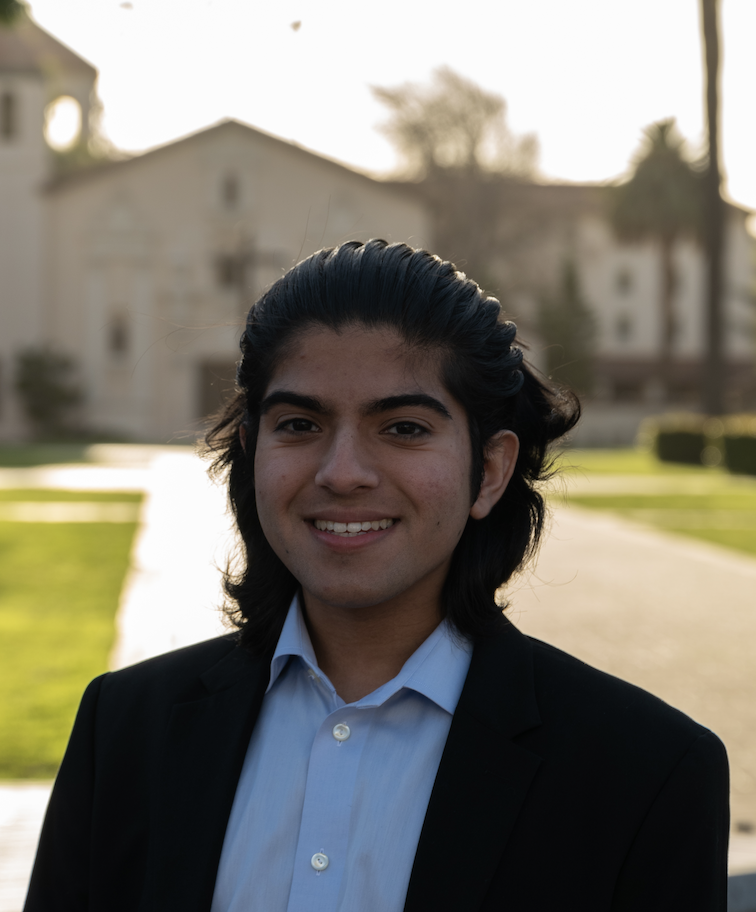
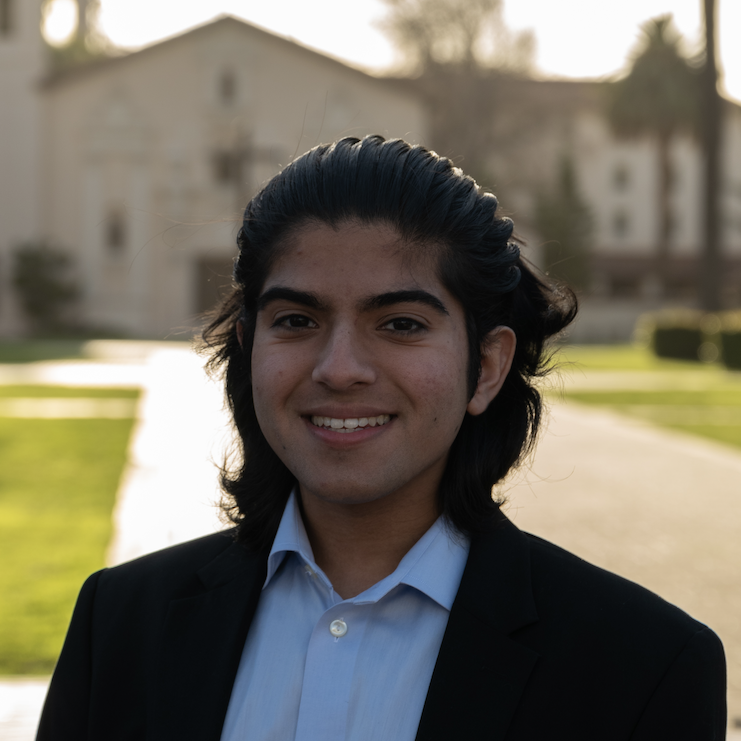
circles for team photos

diff --git a/frontend/home.html b/frontend/home.html
@@ -102,7 +102,7 @@
 
         .people img{
             border-radius: 50%;
-            border: 1px solid #000000;
+            border: 1px solid white;
             margin-bottom:20px;
         }
 
